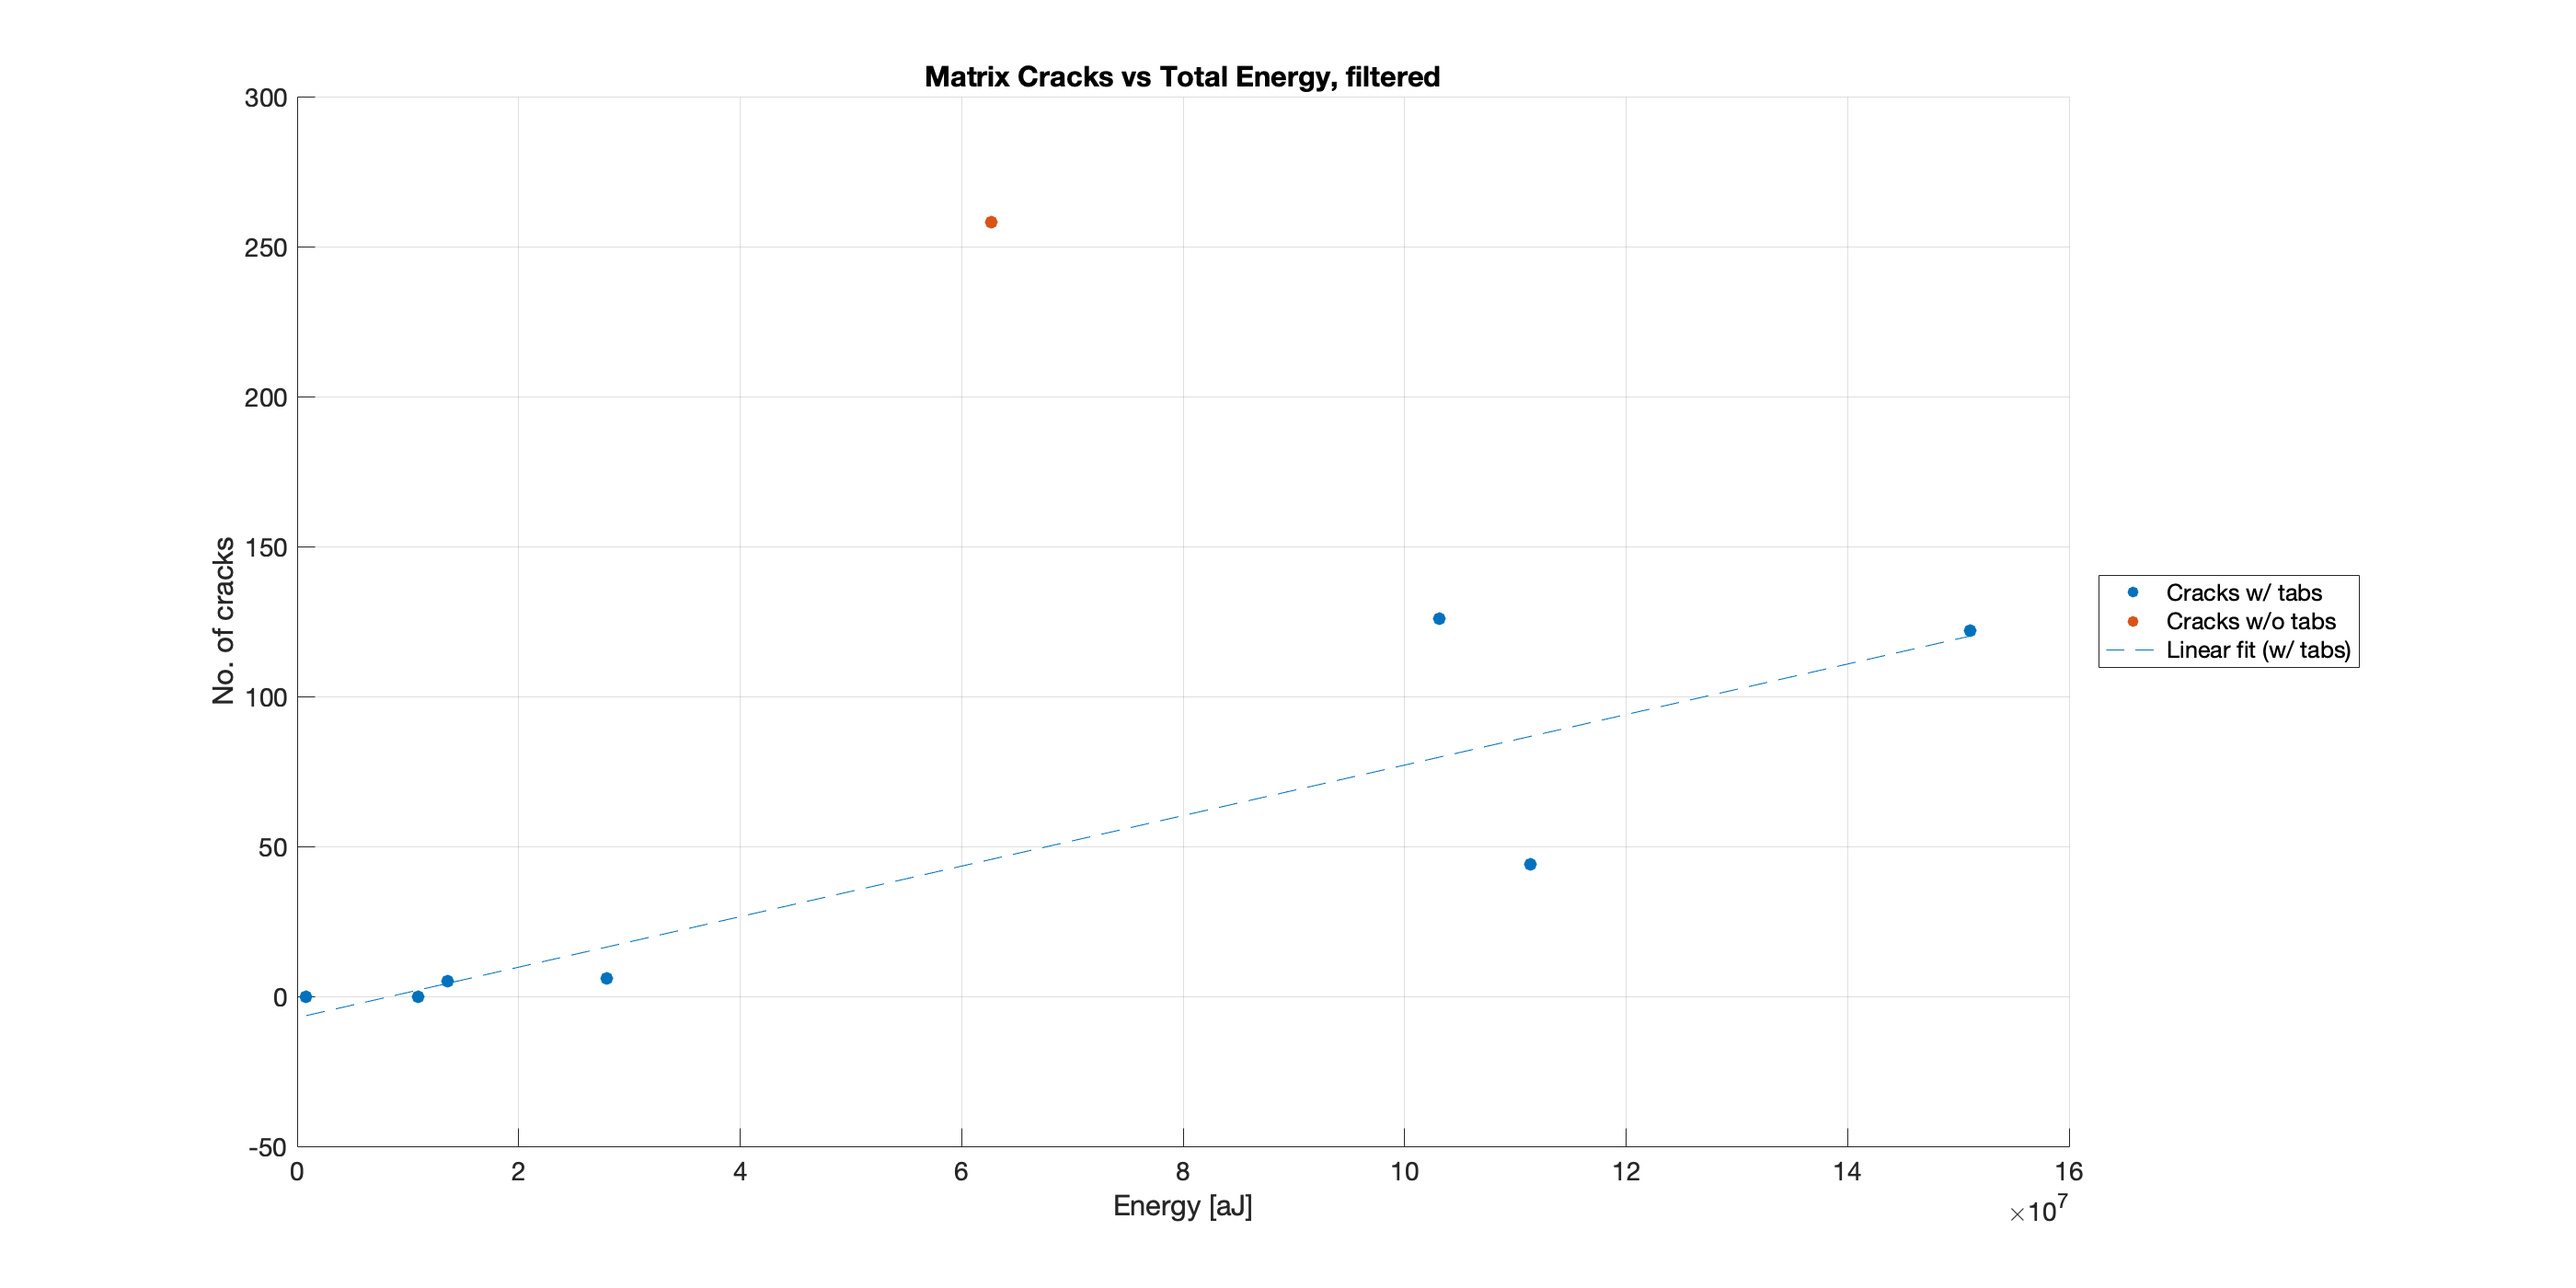
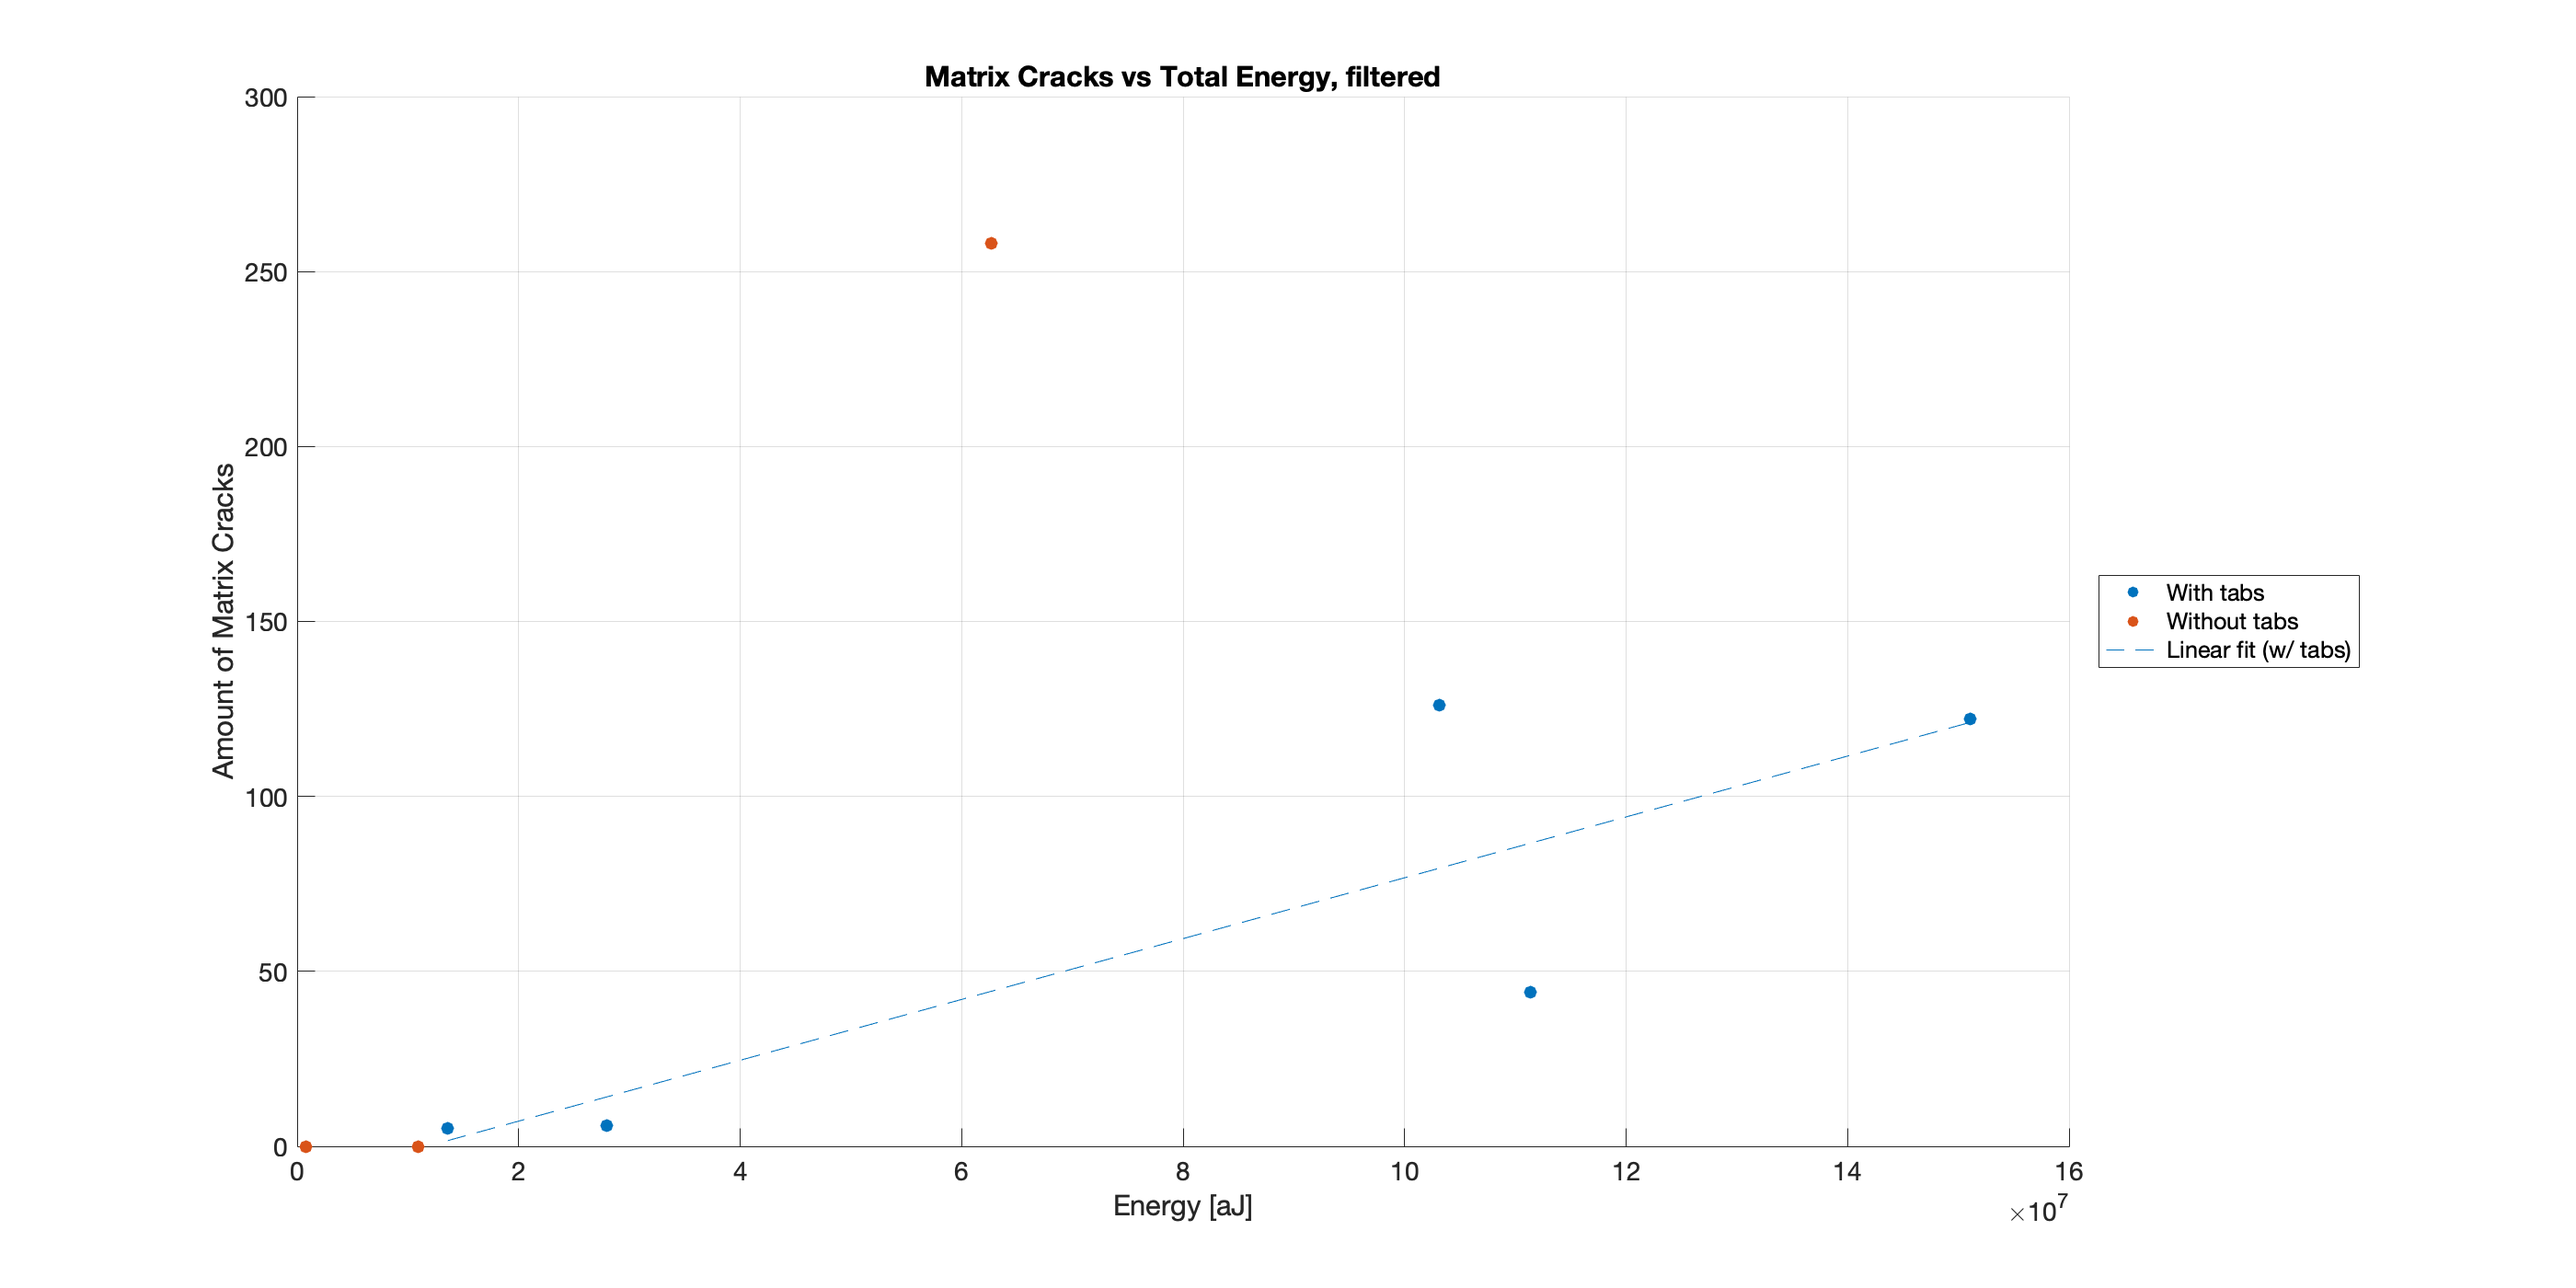
Fixed problems with Cracks vs Energy Graph

diff --git a/Plots/Cracks_Energy.m b/Plots/Cracks_Energy.m
@@ -1,10 +1,18 @@
-cracks = [126, 122, 44, 6, 5, 0, 0];
-p_cracks = [87, 79, 13, 1, 3, 0, 0];
-NT_cracks = 258; 
-NT_p_cracks = 87;
+% Instructions:
+% Enter all crack data below
+% But the data of the specimens without tabs last
+% Enter how many specimens didn't have tabs
 
-energy_data = table2array(SV.EnergyTable(1:(end-1), 2:4));
-enrgy_data_notabs = table2array(SV.EnergyTable(end, 2:4));
+cracks = [126, 122, 44, 6, 5, 0, 0, 258];
+% p_cracks = [87, 79, 13, 1, 3, 0, 0, 87];
+
+no_tabs = 3;
+
+energy_data = table2array(SV.EnergyTable(1:(end-no_tabs), 2:4));
+energy_data_notabs = table2array(SV.EnergyTable((end-no_tabs+1):end, 2:4));
+
+cracks_data = cracks(:, 1:(end-no_tabs));
+cracks_data_notabs = cracks(:, (end-no_tabs+1):end);
 
 energy_titles = ["Pullstop Energy", "Pullstop + 10sec", "Total Energy"];
 energy_stop_col = [2, 3, 1];
@@ -12,28 +20,29 @@ energy_stop_col = [2, 3, 1];
 for t = energy_titles
 
     i = find(t == energy_titles);
-    x = energy_data(:, energy_stop_col(i))';
+    e = energy_data(:, energy_stop_col(i))';
+    e_nt = energy_data_notabs(:, energy_stop_col(i))';
 
     figure('name', plus("Matrix Cracks vs ", t),...
-        'Position',[60,60,1400,700])
+        'Position',[60,60,1400,700]);
     hold on
 
-    lc = polyfit(x, cracks, 1);
-    lcp = polyfit(x, p_cracks, 1);
-    f = polyval(lc, [min(x) max(x)]);
-    fp = polyval(lcp, x);
+    lc = polyfit(e, cracks_data, 1);
+    % lcp = polyfit(x, p_cracks, 1);
+    f = polyval(lc, [min(e) max(e)]);
+    % fp = polyval(lcp, x);
 
-    scatter(x, cracks, 50, "filled", "Color", "#0072BD");
-    scatter(enrgy_data_notabs(i), NT_cracks, 50, "filled", "Color", "#808080");
-    plot([min(x) max(x)], f, "LineStyle", "--", "Color", "#0072BD");
-%    scatter(x, p_cracks, 50, "filled", "b");
-%    plot(x, fp, "Color", "b", "LineStyle","--");
+    scatter(e, cracks_data, 50, "filled", "Color", "#0072BD");
+    scatter(e_nt, cracks_data_notabs, 50, "filled", "Color", "#808080");
+    plot([min(e) max(e)], f, "LineStyle", "--", "Color", "#0072BD");
+    % scatter(x, p_cracks, 50, "filled", "b");
+    % plot(x, fp, "Color", "b", "LineStyle","--");
 
     title(append(plus("Matrix Cracks vs ", t),...
         captext));
     xlabel('Energy [aJ]');
-    ylabel('No. of cracks');
-    legend(["Cracks w/ tabs", "Cracks w/o tabs", "Linear fit (w/ tabs)"], ...
+    ylabel('Amount of Matrix Cracks');
+    legend(["With tabs", "Without tabs", "Linear fit (w/ tabs)"], ...
         'location','east outside');
     grid on
     set(gca,'FontSize',14)

diff --git a/Start.m b/Start.m
@@ -58,7 +58,7 @@ MCmaxCount = 50;
 MCminRise = 0; %[s]
 MCmaxRise = 45; %[s]
 MCstr = 210; % [%] What is expected start stress for matrix cracks
-EnergyCap = 1.5*10^7; %To exclude anomalies
+EnergyCap = 1.5*10^15; %To exclude anomalies
 
     %Calibrate debonding definition
 DBminFreq = 240*10^3; %[Hz]
